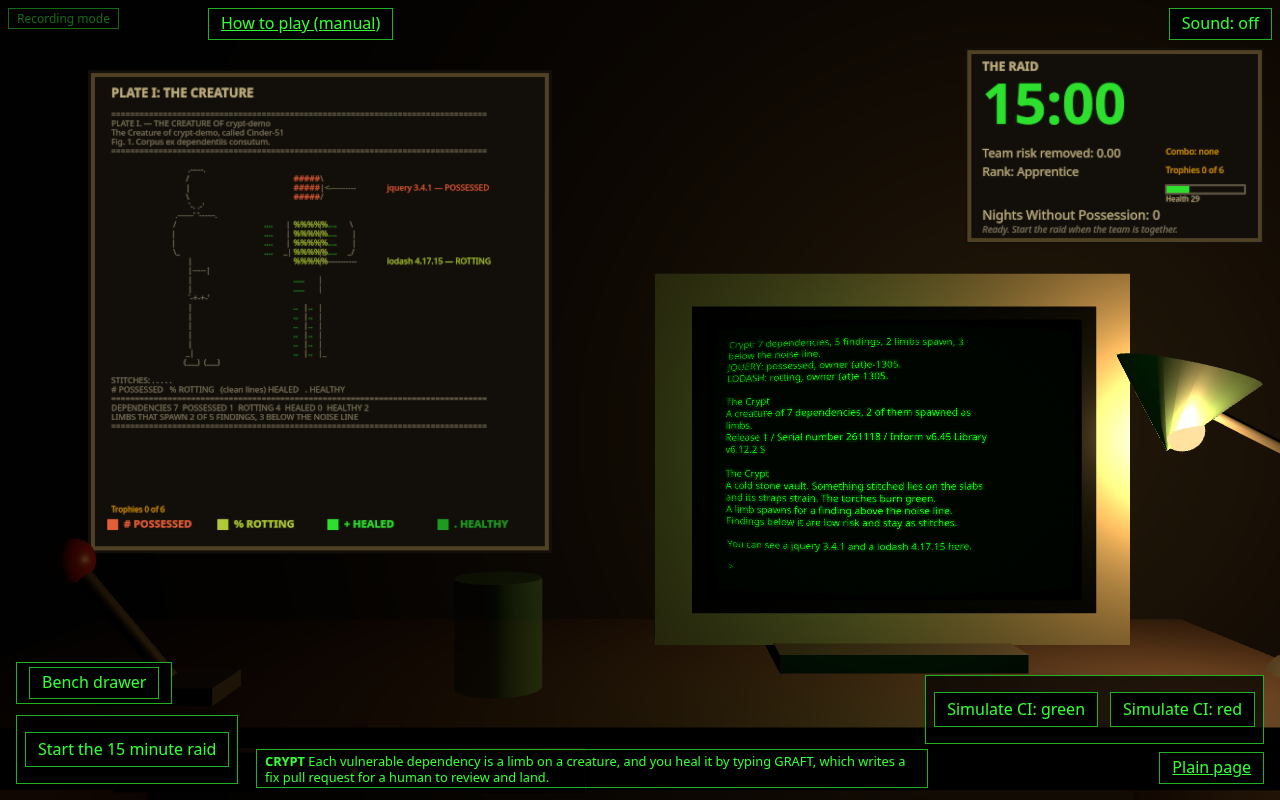
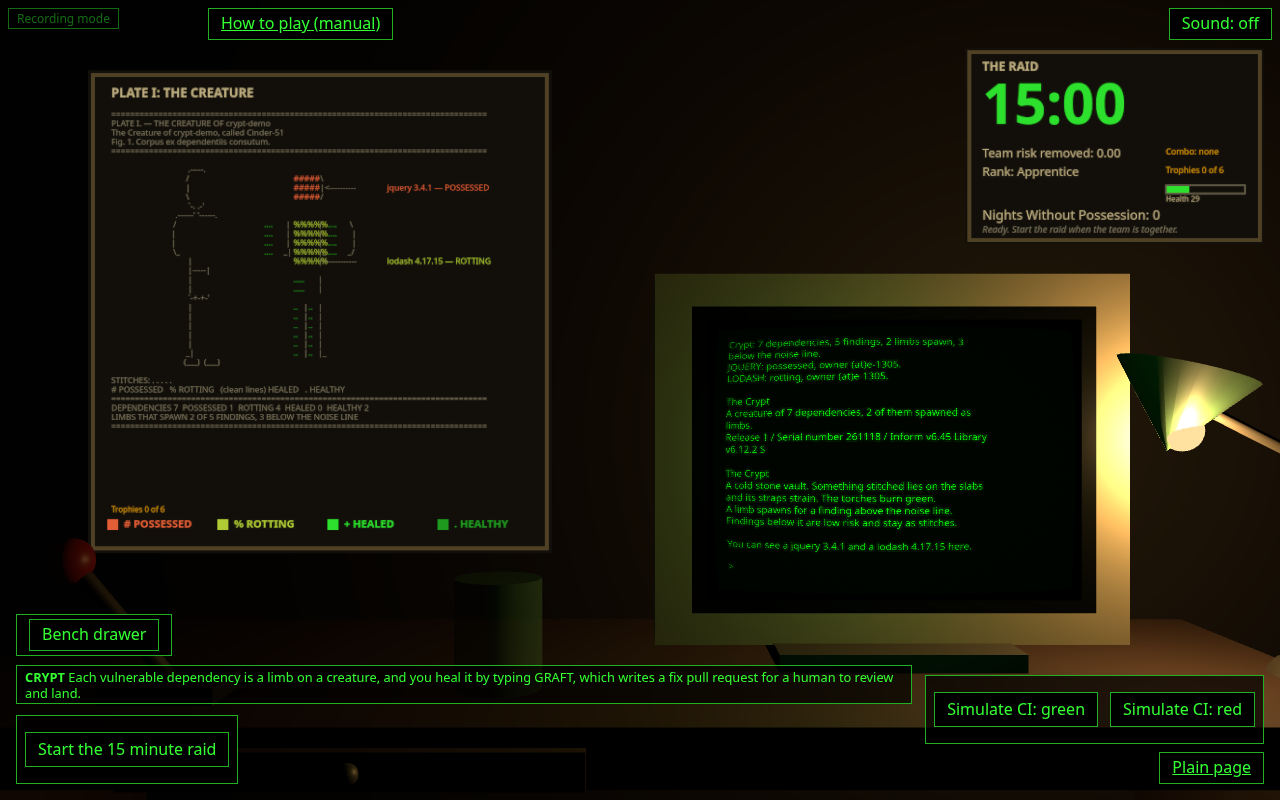
fix: keep the 3D pitch strip clear of the raid controls and check every fixed element at 1920x1080 (#58)

Changed region(s): [[0.0, 0.75, 0.7188, 0.9062], [0.1875, 0.9375, 0.6875, 1.0]]

diff --git a/web/style.css b/web/style.css
@@ -109,7 +109,7 @@ body.theatre .top, body.theatre .crt { position: absolute; width: 1px; height: 1
 .manual-link:focus-visible, #theatre-manual:focus-visible, #theatre-plain:focus-visible { outline: 2px solid var(--warn); outline-offset: 2px; }
 
 /* Bench drawer (web/theatre/drawer.js): the A3 actions inside the 3D theatre. */
-#bench-drawer { position: fixed; left: 1rem; bottom: 6rem; z-index: 5; max-width: min(24rem, calc(100vw - 2rem)); color: var(--fg); background: #000; border: 1px solid var(--dim); padding: .25rem .75rem; }
+#bench-drawer { position: fixed; left: 1rem; bottom: 9rem; z-index: 5; max-width: min(24rem, calc(100vw - 2rem)); color: var(--fg); background: #000; border: 1px solid var(--dim); padding: .25rem .75rem; }
 #bench-drawer-body { padding: .5rem 0; }
 #bench-drawer h2 { margin: 0 0 .25rem; font-size: 1rem; }
 #bench-drawer input { width: 100%; box-sizing: border-box; background: transparent; border: 1px solid var(--dim); color: var(--fg); font: inherit; padding: .25rem; margin: .25rem 0; }
@@ -224,9 +224,9 @@ body:not(.theatre) .transcript { height: min(40vh, 14rem); min-height: 8rem; }
 .input-row { align-items: baseline; flex-wrap: wrap; }
 .input-row input { min-width: 8rem; }
 
-/* 3D bench caption: the title and the pitch on the first frame. Text is aria-hidden: the same sentence is in the page header. */
+/* 3D bench caption: the title and the pitch on the first frame. It sits in its own row above the bottom controls (#raid left, #sim right), so no control width can reach it. Text is aria-hidden: the same sentence is in the page header. */
 .theatre-caption { display: none; }
-body.theatre .theatre-caption { display: block; position: fixed; z-index: 4; bottom: .75rem; left: 16rem; right: 22rem; margin: 0; padding: .15rem .5rem;
+body.theatre .theatre-caption { display: block; position: fixed; z-index: 4; bottom: 6rem; left: 1rem; right: 23rem; margin: 0; padding: .15rem .5rem;
   font-size: .8rem; line-height: 1.25; color: var(--fg); background: rgba(0, 0, 0, .65); border: 1px solid var(--dim); pointer-events: none; }
 body.record .theatre-caption { display: none; }
 @media (max-width: 900px) { body.theatre .theatre-caption { bottom: 8rem; left: .5rem; right: .5rem; } }

diff --git a/tests/visual-overlap.test.ts b/tests/visual-overlap.test.ts
@@ -1,6 +1,6 @@
 import { describe, expect, it } from "vitest";
 // @ts-expect-error plain ES module without types
-import { findOverlaps, intersects } from "../scripts/ci/overlap.mjs";
+import { filterFixedBoxes, findOverlaps, intersects, isFullViewport } from "../scripts/ci/overlap.mjs";
 
 const box = (name: string, x: number, y: number, width: number, height: number) => ({ name, x, y, width, height });
 
@@ -13,5 +13,13 @@ describe("visual QA overlap helper", () => {
   });
   it("ignores sub-pixel rounding overlap", () => {
     expect(intersects(box("a", 0, 0, 100, 40), box("b", 99.5, 0, 100, 40))).toBe(false);
+  });
+  it("treats near-full-viewport boxes as overlays", () => {
+    expect(isFullViewport(box("o", 0, 0, 1440, 900), 1440, 900)).toBe(true);
+    expect(isFullViewport(box("bar", 0, 800, 1440, 60), 1440, 900)).toBe(false);
+  });
+  it("drops overlays and 1px hidden boxes from fixed boxes", () => {
+    const kept = filterFixedBoxes([box("canvas", 0, 0, 1440, 900), box("sr", 0, 0, 1, 1), box("raid", 16, 800, 300, 60)], 1440, 900);
+    expect(kept.map((b: { name: string }) => b.name)).toEqual(["raid"]);
   });
 });
